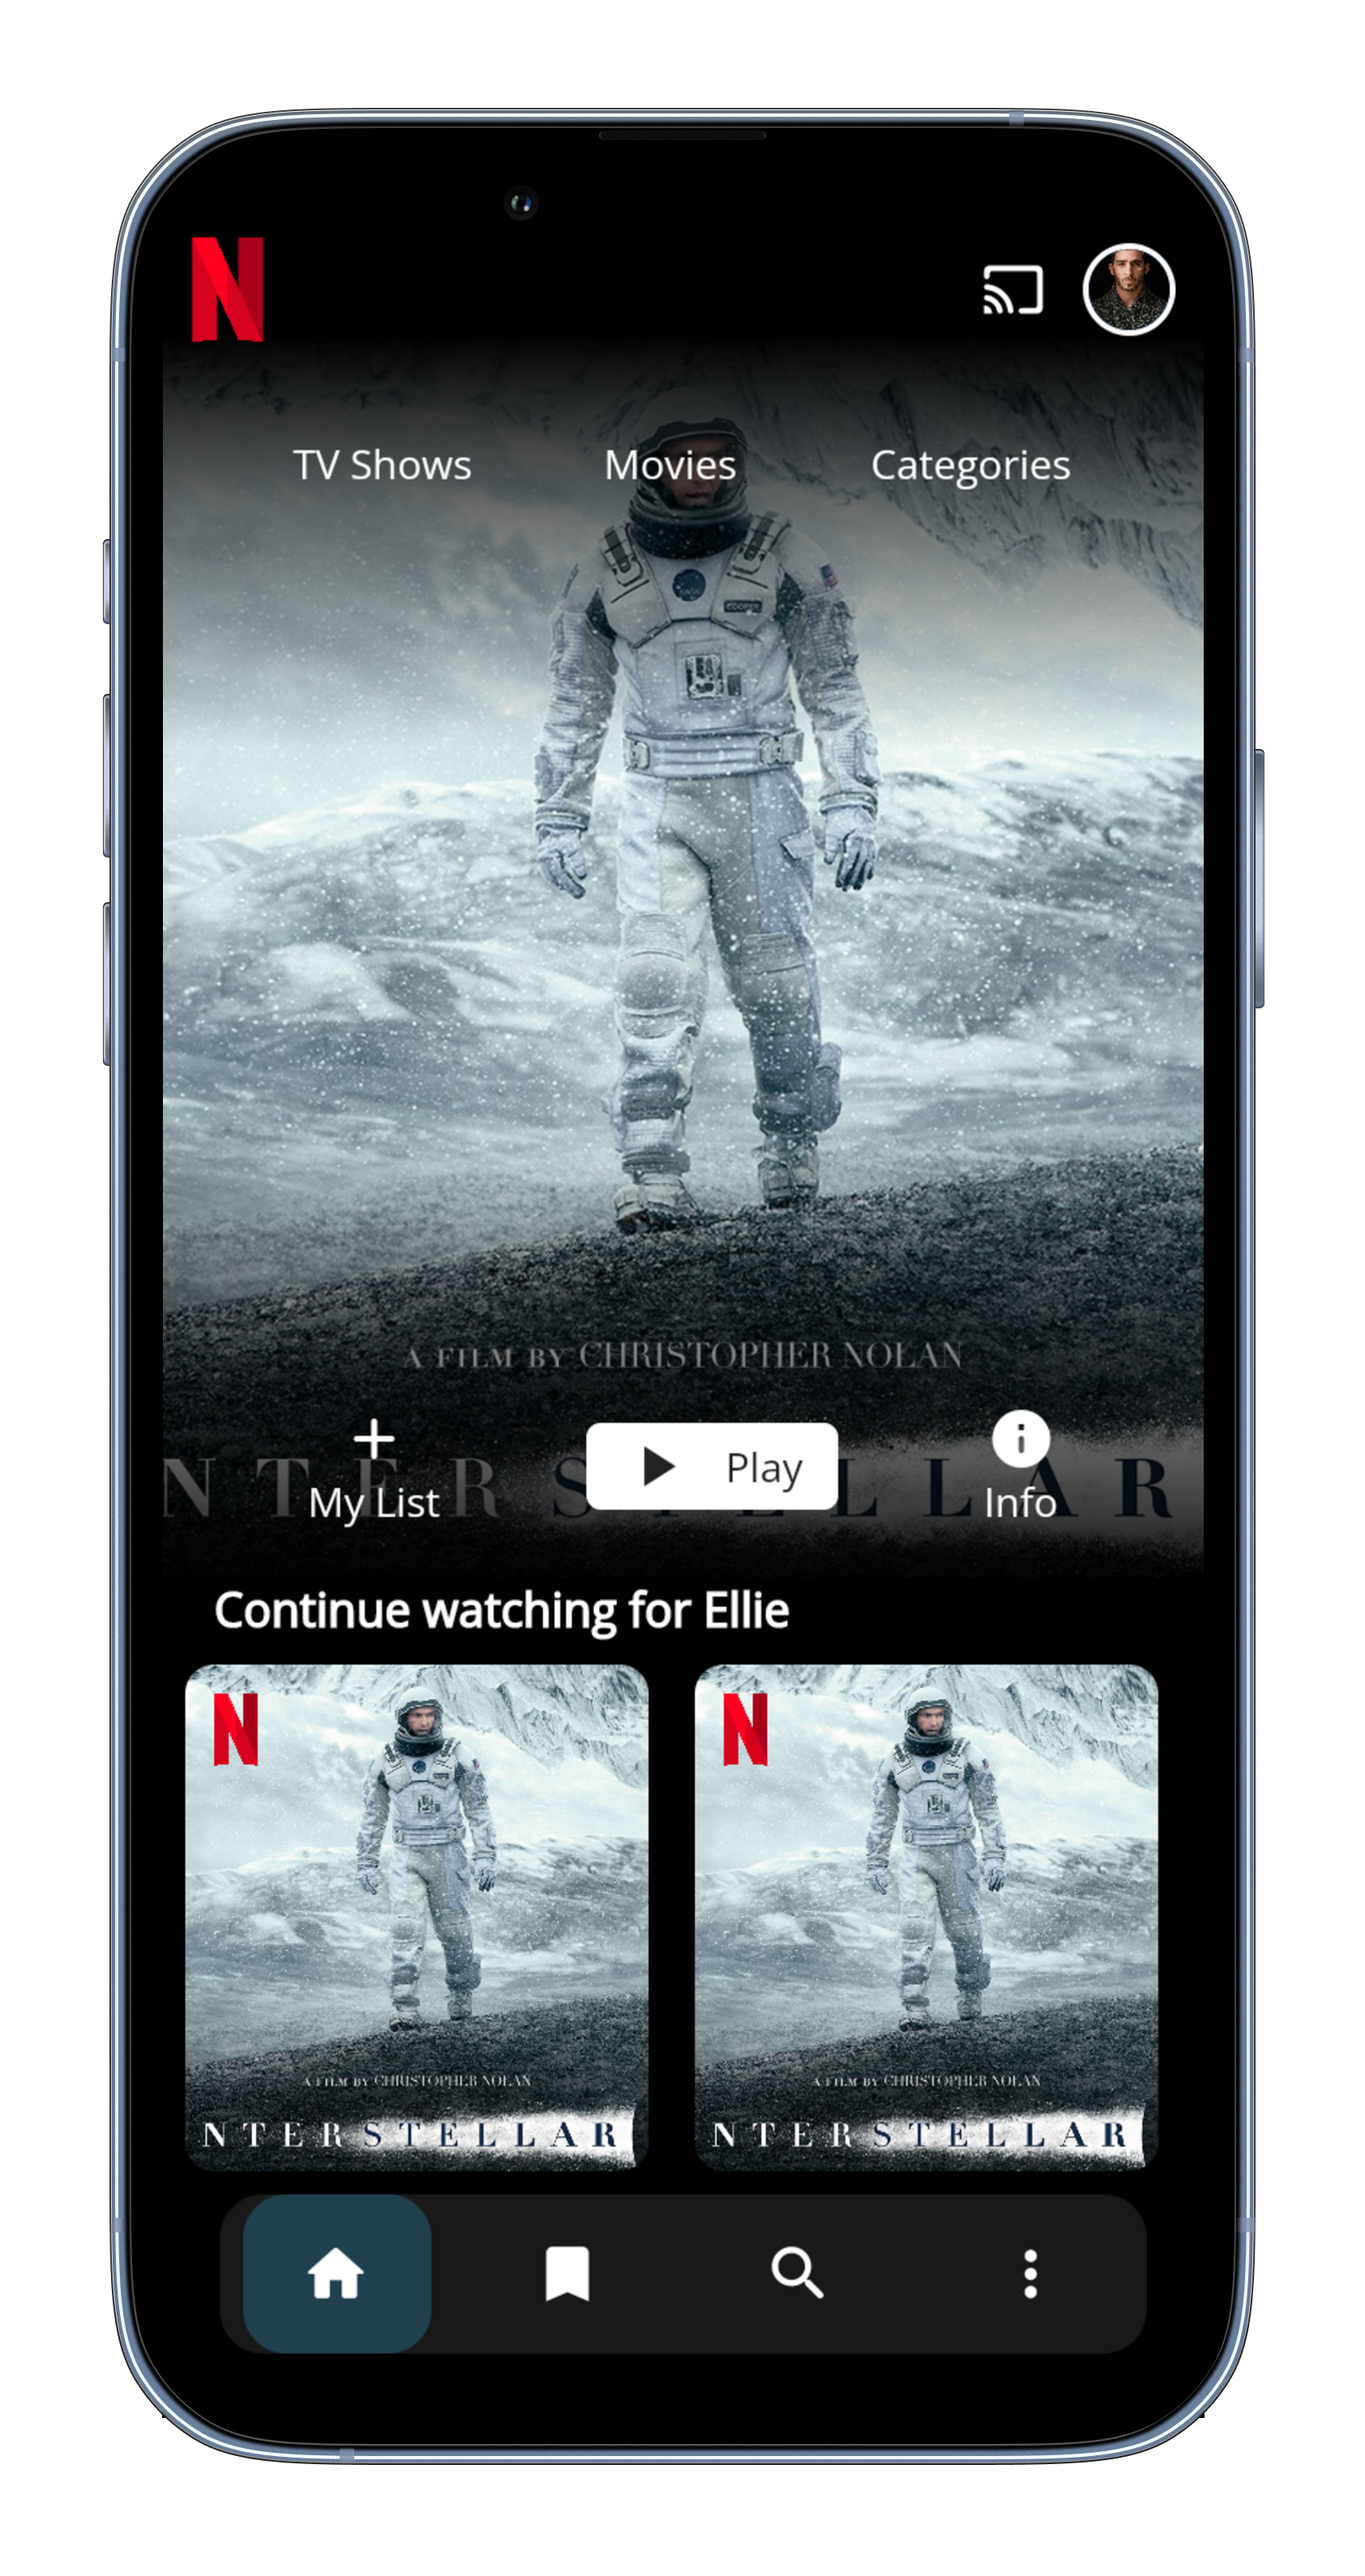
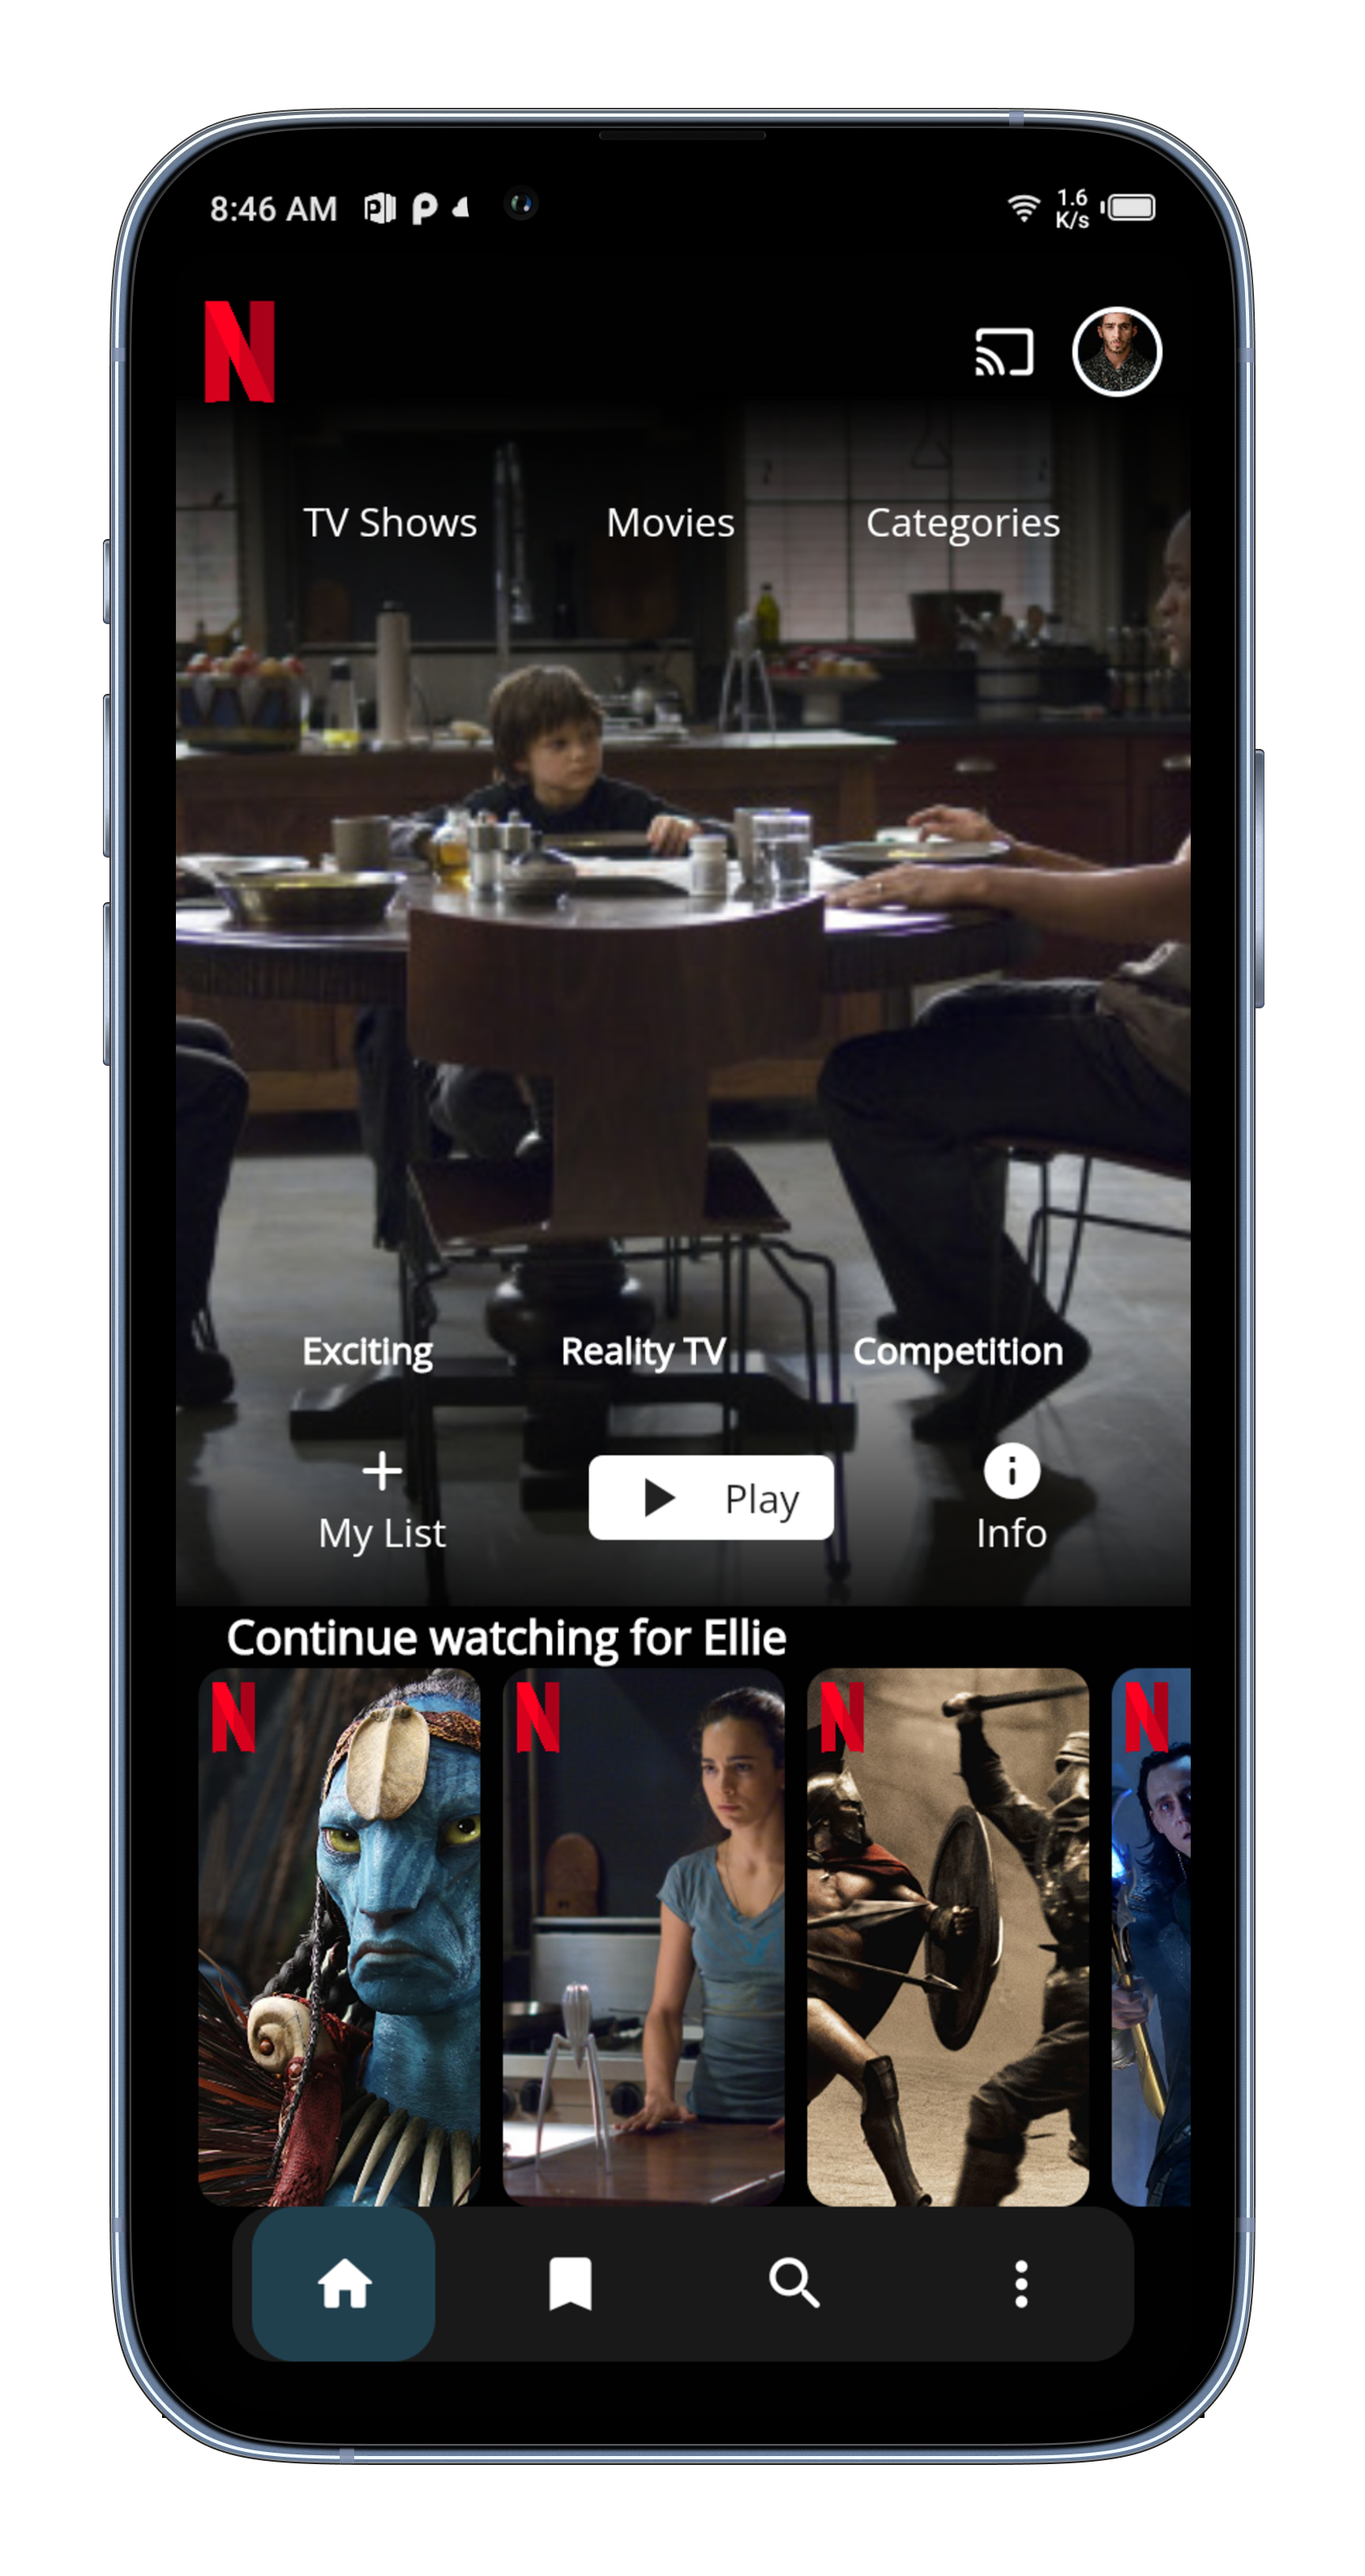
home screen is using json file data

diff --git a/lib/screens/onboarding_screen.dart b/lib/screens/onboarding_screen.dart
@@ -1,4 +1,5 @@
 import 'package:flutter/material.dart';
+import 'package:netflix_clone/screens/home_screen.dart';
 
 class OnboardingScreen extends StatelessWidget {
   const OnboardingScreen({super.key});
@@ -77,19 +78,28 @@ class OnboardingScreen extends StatelessWidget {
               ),
               Padding(
                 padding: const EdgeInsets.all(8.0),
-                child: Container(
-                  height: 44,
-                  decoration: BoxDecoration(
-                      color: Color(0xffD22F26),
-                      borderRadius: BorderRadius.circular(2)),
-                  child: Center(
-                    child: Text(
-                      "Get Started",
-                      style: TextStyle(
-                          color: Color(0xffE6E6E6),
-                          fontSize: 14,
-                          fontFamily: 'sans',
-                          fontWeight: FontWeight.w600),
+                child: InkWell(
+                  onTap: () {
+                    Navigator.push(
+                        context,
+                        MaterialPageRoute(
+                          builder: (context) => UserHomeScreen(),
+                        ));
+                  },
+                  child: Ink(
+                    height: 44,
+                    decoration: BoxDecoration(
+                        color: Color(0xffD22F26),
+                        borderRadius: BorderRadius.circular(2)),
+                    child: Center(
+                      child: Text(
+                        "Get Started",
+                        style: TextStyle(
+                            color: Color(0xffE6E6E6),
+                            fontSize: 14,
+                            fontFamily: 'sans',
+                            fontWeight: FontWeight.w600),
+                      ),
                     ),
                   ),
                 ),

diff --git a/lib/screens/home_screen.dart b/lib/screens/home_screen.dart
@@ -1,12 +1,27 @@
-import 'dart:ui';
-
 import 'package:flutter/material.dart';
-
+import 'package:cached_network_image/cached_network_image.dart';
+import 'package:netflix_clone/model/film_model.dart';
+import '../controller/jsonfile_reader.dart';
 import '../widgets/bottom_navigationbar.dart';
 import '../widgets/watching_card.dart';
 
-class UserHomeScreen extends StatelessWidget {
-  const UserHomeScreen({super.key});
+class UserHomeScreen extends StatefulWidget {
+  @override
+  State<UserHomeScreen> createState() => _UserHomeScreenState();
+}
+
+class _UserHomeScreenState extends State<UserHomeScreen> {
+  JsonFileHelper jsonReader = JsonFileHelper();
+
+  @override
+  void initState() {
+    jsonReader.getFilmDetail().then((value) => reload());
+    super.initState();
+  }
+
+  reload() {
+    setState(() {});
+  }
 
   @override
   Widget build(BuildContext context) {
@@ -36,7 +51,8 @@ class UserHomeScreen extends StatelessWidget {
                 decoration: BoxDecoration(
                     image: DecorationImage(
                         fit: BoxFit.cover,
-                        image: AssetImage("./images/main.jpg"))),
+                        image: CachedNetworkImageProvider(
+                            filmList[1].imagesFilm[0]))),
               ),
               Padding(
                 padding: const EdgeInsets.only(left: 10.0, right: 10),
@@ -222,8 +238,8 @@ class UserHomeScreen extends StatelessWidget {
   List<Widget> createWatchingCards() {
     List<Widget> watchingCards = [];
     int i = 0;
-    while (i <= 5) {
-      watchingCards.add(WatchingCard());
+    while (i <= 10) {
+      watchingCards.add(WatchingCard(filmList[i].imagesFilm[1]));
       i++;
     }
     return watchingCards;

diff --git a/lib/widgets/watching_card.dart b/lib/widgets/watching_card.dart
@@ -1,7 +1,9 @@
 import 'package:flutter/material.dart';
+import 'package:cached_network_image/cached_network_image.dart';
 
 class WatchingCard extends StatelessWidget {
-  const WatchingCard({super.key});
+  String imageLink;
+  WatchingCard(this.imageLink);
 
   @override
   Widget build(BuildContext context) {
@@ -18,13 +20,13 @@ class WatchingCard extends StatelessWidget {
               width: 160,
               decoration: BoxDecoration(
                   borderRadius: BorderRadius.circular(10),
-                  image: const DecorationImage(
-                      image: AssetImage("./images/main.jpg"),
+                  image: DecorationImage(
+                      image: CachedNetworkImageProvider(imageLink),
                       fit: BoxFit.cover)),
             ),
             Positioned(
-              left: 10,
-              top: 10,
+              left: 5,
+              top: 5,
               child: Container(
                 height: 25,
                 width: 15,

diff --git a/lib/screens/splash_screen.dart b/lib/screens/splash_screen.dart
@@ -1,7 +1,27 @@
-import 'package:flutter/material.dart';
+import 'dart:async';
 
-class SplashScreen extends StatelessWidget {
+import 'package:flutter/material.dart';
+import 'package:netflix_clone/screens/onboarding_screen.dart';
+
+class SplashScreen extends StatefulWidget {
   const SplashScreen({super.key});
+
+  @override
+  State<SplashScreen> createState() => _SplashScreenState();
+}
+
+class _SplashScreenState extends State<SplashScreen> {
+  @override
+  void initState() {
+    super.initState();
+    Timer(Duration(seconds: 2), () {
+      Navigator.pushReplacement(
+          context,
+          MaterialPageRoute(
+            builder: (context) => OnboardingScreen(),
+          ));
+    });
+  }
 
   @override
   Widget build(BuildContext context) {

diff --git a/lib/main.dart b/lib/main.dart
@@ -1,4 +1,5 @@
 import 'package:flutter/material.dart';
+import 'package:netflix_clone/screens/splash_screen.dart';
 import 'screens/search_film.dart';
 
 void main() {
@@ -14,7 +15,7 @@ class MyApp extends StatelessWidget {
     return const MaterialApp(
       debugShowCheckedModeBanner: false,
       title: 'Netflix',
-      home: UserListView(),
+      home: SplashScreen(),
     );
   }
 }

diff --git a/lib/screens/search_film.dart b/lib/screens/search_film.dart
@@ -19,7 +19,7 @@ class _UserListViewState extends State<UserListView> {
   int selectedIndex = 0;
   TextEditingController username = TextEditingController();
   List<String> searchFilm = [];
-  Future recievedData = Future(() => null);
+
   @override
   void initState() {
     jsonReader.getFilmDetail().then((value) => reload());
